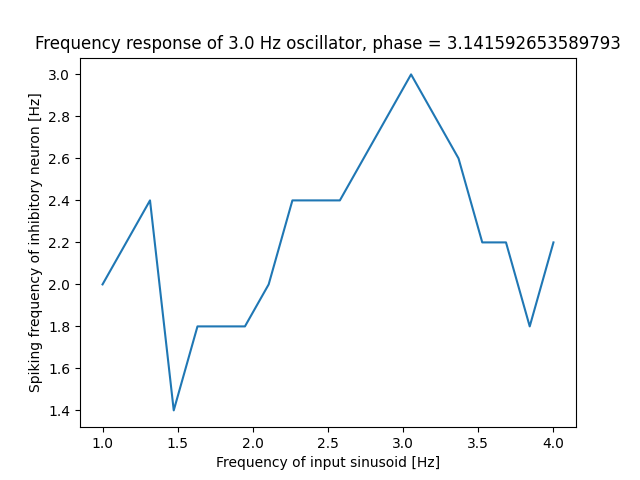
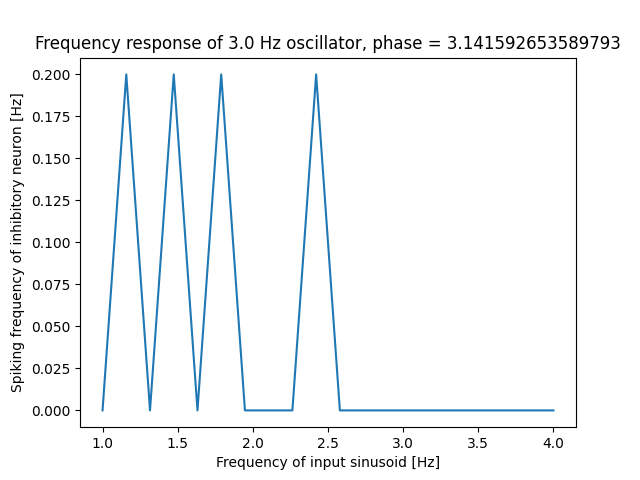
update

diff --git a/python_scripts/multiple_oscillators_main.py b/python_scripts/multiple_oscillators_main.py
@@ -13,6 +13,7 @@ import numpy as np
 import matplotlib.pyplot as plt
 
 from utils import gen_param_group_1core, gaussian_recurrent_excitation
+from oscillator import Oscillator
 from ADM import ADM
 
 # open DYNAP-SE1 board to get Dynapse1Model
@@ -49,7 +50,8 @@ model.update_parameter_group(paramGroupExc, chip_id, core_id_exc)
 model.update_parameter_group(paramGroupInh, chip_id, core_id_inh)
 
 # define the network parameters
-exc_offset = 1 # lowest excitatory neuron id
+exc_offset = 3 # lowest excitatory neuron id
+inh_offset = 1 # lowest inhibitory neuron id
 num_exc = 32
 num_inh = 8
 input_rates = np.linspace(1, 4, 20)
@@ -57,52 +59,36 @@ input_phase = np.pi
 osc_input_rate = 120
 duration = 5
 spike_gen_osc_id = 50
-spike_gen_in_up_id = 51
-spike_gen_in_dn_id = 52
+spike_gen_in_up_id = 1
+spike_gen_in_dn_id = 2
 ei_rate = 1 # probability of an excitatory synapse between any pair of excitatory and inhibitory neurons
 ie_rate = 1 # probability of an inhibitory synapse between any pair of excitatory and inhibitory neurons
 nids_exc = range(exc_offset, num_exc + exc_offset)
-nids_inh = range(1, num_inh + 1)
+nids_inh = range(inh_offset, num_inh + inh_offset)
 
 
 # init a network generator
 net_gen = n.NetworkGenerator()
 
 # create spikegens
-spikegen_osc = Neuron(chip_id, core_id_exc, spike_gen_osc_id, True)
 spikegen_input_up = Neuron(chip_id, core_id_exc, spike_gen_in_up_id, True)
 spikegen_input_dn = Neuron(chip_id, core_id_exc, spike_gen_in_dn_id, True)
 
-# create excitatory population, connect them to spikegens
-exc_neurons = []
-for nid_exc in nids_exc:
-    exc_neuron = Neuron(chip_id, core_id_exc, nid_exc)
-    net_gen.add_connection(spikegen_osc, exc_neuron, dyn1.Dynapse1SynType.AMPA)
-    net_gen.add_connection(spikegen_input_up, exc_neuron, dyn1.Dynapse1SynType.AMPA)
-    net_gen.add_connection(spikegen_input_dn, exc_neuron, dyn1.Dynapse1SynType.GABA_B)
-    exc_neurons.append(exc_neuron)
+oscillator = Oscillator(
+    net_gen,
+    spikegen_input_up,
+    spikegen_input_dn,
+    osc_input_rate=120
+)
 
-# create inhibitory population and ei connections
-inh_neurons =[]
-for nid_inh in nids_inh:
-    inh_neuron = Neuron(chip_id, core_id_inh, nid_inh)
-    for exc_neuron in exc_neurons:
-        if random.uniform(0, 1) <= ei_rate:
-            net_gen.add_connection(exc_neuron, inh_neuron, dyn1.Dynapse1SynType.AMPA)
-    inh_neurons.append(inh_neuron)
-
-# create ee connections
-output_i, output_j = gaussian_recurrent_excitation(num_exc, 6, 1, self_exc=False) 
-for i, j in zip(output_i, output_j):
-    net_gen.add_connection(exc_neurons[i], exc_neurons[j], dyn1.Dynapse1SynType.AMPA)
-
-
-# create ie connections
-for inh_neuron in inh_neurons:
-    for exc_neuron in exc_neurons:
-        if random.uniform(0, 1) <= ie_rate:
-            net_gen.add_connection(inh_neuron, exc_neuron, dyn1.Dynapse1SynType.GABA_B)
-
+""" oscillator = Oscillator(
+    net_gen,
+    spikegen_input_up,
+    spikegen_input_dn,
+    osc_input_rate=120
+)
+ """
+nids_exc, nids_inh, spike_gen_osc_id = oscillator.get_ids()
 
 # print network
 net_gen.print_network()
@@ -118,16 +104,13 @@ monitored_global_nids_inh = [ut.get_global_id(chip_id, core_id_inh, nid_inh) for
 monitored_global_nids = monitored_global_nids_exc + monitored_global_nids_inh
 
 
-# set up oscillator spike generator
-spikegen_osc_global_id = ut.get_global_id(chip_id, core_id_exc, spike_gen_osc_id)
+# set up spike generator
 fpga_spike_gen = model.get_fpga_spike_gen()
 isi_base = 900
 repeat_mode=False
 
-spike_count = osc_input_rate * duration 
-spike_times_osc = np.linspace(0, duration, spike_count)
-indices_osc = [spikegen_osc_global_id]*len(spike_times_osc)
-target_chips_osc = [chip_id]*len(indices_osc)
+# set up oscillator spikes
+spike_times_osc, indices_osc, target_chips_osc = oscillator.get_osc_input_spikes(duration)
 
 output_rates = []
 for input_rate in input_rates:
@@ -186,7 +169,7 @@ for input_rate in input_rates:
     # Add counter for every neuron spiked during recording
     len_events = len(events)
     holder = np.zeros([len_events,2])
-    counter = np.zeros(num_exc + num_inh + exc_offset)
+    counter = np.zeros(max(nids_inh) + max(nids_exc) + 1)
 
     for i, evt in enumerate(events):
         holder[i,:] = [evt.core_id * max(nids_exc) + evt.neuron_id, (evt.timestamp - events[0].timestamp)]
@@ -199,15 +182,15 @@ for input_rate in input_rates:
     plt.scatter(holder[:,1]/1e3, holder[:,0], marker='|',color='k')
     plt.xlabel('Time (ms)')
     plt.ylabel('Neuron ID')
-    plt.title('Oscillator fixed input: {} Hz, Input sine wave: {} Hz'.format(osc_input_rate, round(input_rate, 2), round(input_phase, 2)))
-    #plt.savefig('./plots/oscillator+input_spikes_' + str(round(osc_input_rate, 2))+ 'Hz_' + str(round(input_rate, 2))+ 'Hz.png')
+    plt.title('Oscillator fixed input: {} Hz, Input sine wave: {} Hz'.format(osc_input_rate, round(input_rate, 2)))
+    #plt.savefig('../plots/oscillator+input_spikes_' + str(round(osc_input_rate, 2))+ 'Hz_' + str(round(input_rate, 2))+ 'Hz.png')
     plt.close()
 
 plt.plot(input_rates, output_rates)
 plt.xlabel('Frequency of input sinusoid [Hz]')
 plt.ylabel('Spiking frequency of inhibitory neuron [Hz]')
 plt.title('Frequency response of {} Hz oscillator, phase = {}'.format(3.0, input_phase))
-plt.savefig('./plots/3.0Hz_oscillator+input_spikes+across_frequencies+phase={}.png'.format(round(input_phase, 2)))
+plt.savefig('../plots/3.0Hz_oscillator+input_spikes+across_frequencies+phase={}.png'.format(round(input_phase, 2)))
 
 # close Dynapse1
 ut.close_dynapse1(store, device_name)

diff --git a/python_scripts/oscillator.py b/python_scripts/oscillator.py
@@ -15,13 +15,14 @@ from utils import gen_param_group_1core, gaussian_recurrent_excitation
 
 class Oscillator:
 
+    exc_offset = 3
+    inh_offset = 1
+
     def __init__(
         self,
         net_gen,
         spikegen_input_up,
         spikegen_input_dn,
-        exc_offset,
-        inh_offset,
         osc_input_rate=120,
         num_exc=32, num_inh=8,
         ei_rate=1, ie_rate=1
@@ -30,6 +31,8 @@ class Oscillator:
         self.core_id_exc = 0
         self.core_id_inh = 1
         self.osc_input_rate = osc_input_rate
+
+        exc_offset, inh_offset = Oscillator.get_offsets()
 
         self.nids_exc = range(exc_offset, num_exc + exc_offset)
         self.nids_inh = range(inh_offset, num_inh + inh_offset)
@@ -69,6 +72,16 @@ class Oscillator:
                 if random.uniform(0, 1) <= ie_rate:
                     net_gen.add_connection(inh_neuron, exc_neuron, dyn1.Dynapse1SynType.GABA_B)
 
+        Oscillator.update_offsets(num_inh, num_inh)
+
+    @classmethod
+    def update_offsets(cls, num_exc, num_inh):
+        cls.exc_offset += (num_exc + 1)
+        cls.inh_offset += num_inh
+
+    @classmethod 
+    def get_offsets(cls):
+        return cls.exc_offset, cls.inh_offset
         
     def get_ids(self):
         return self.nids_exc, self.nids_inh, self.spike_gen_osc_id

diff --git a/python_scripts/oscillator+input_main.py b/python_scripts/oscillator+input_main.py
@@ -78,8 +78,6 @@ oscillator = Oscillator(
     net_gen,
     spikegen_input_up,
     spikegen_input_dn,
-    exc_offset,
-    inh_offset,
     osc_input_rate=120
 )
 
